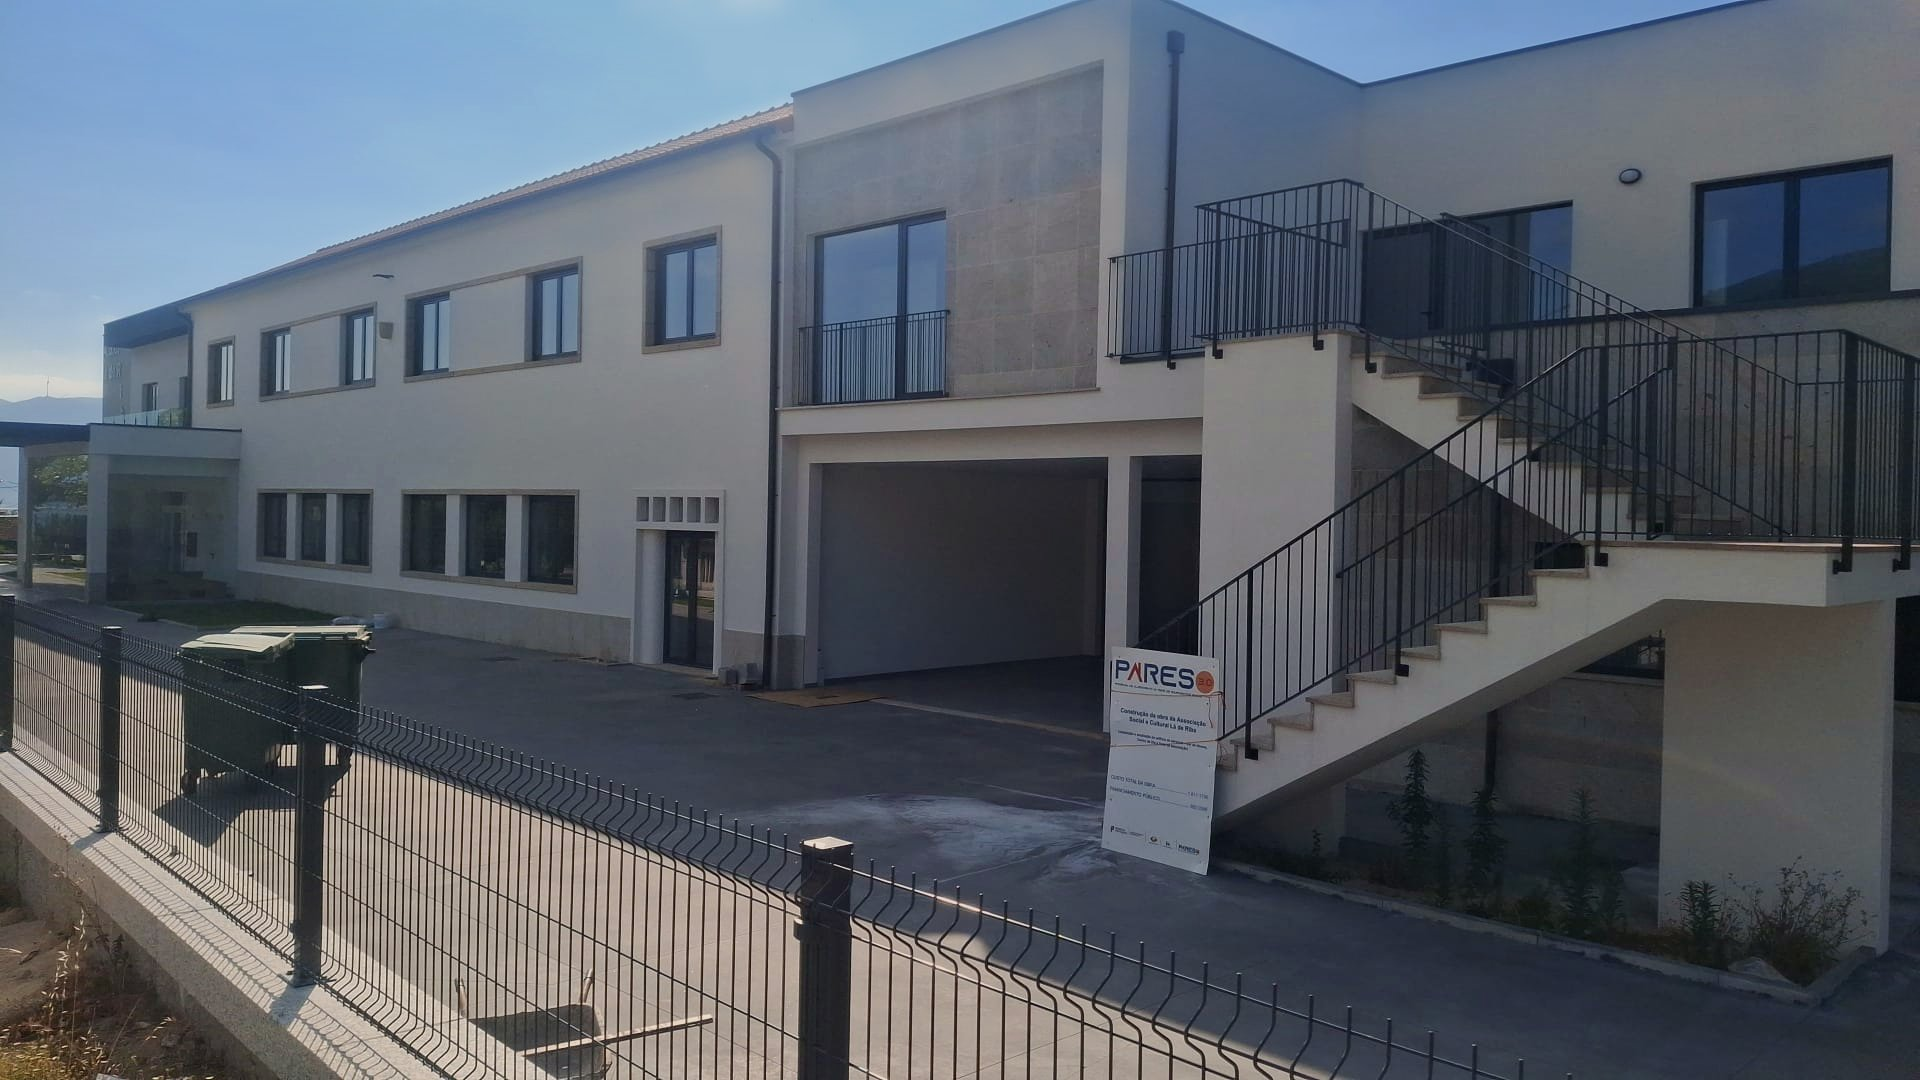
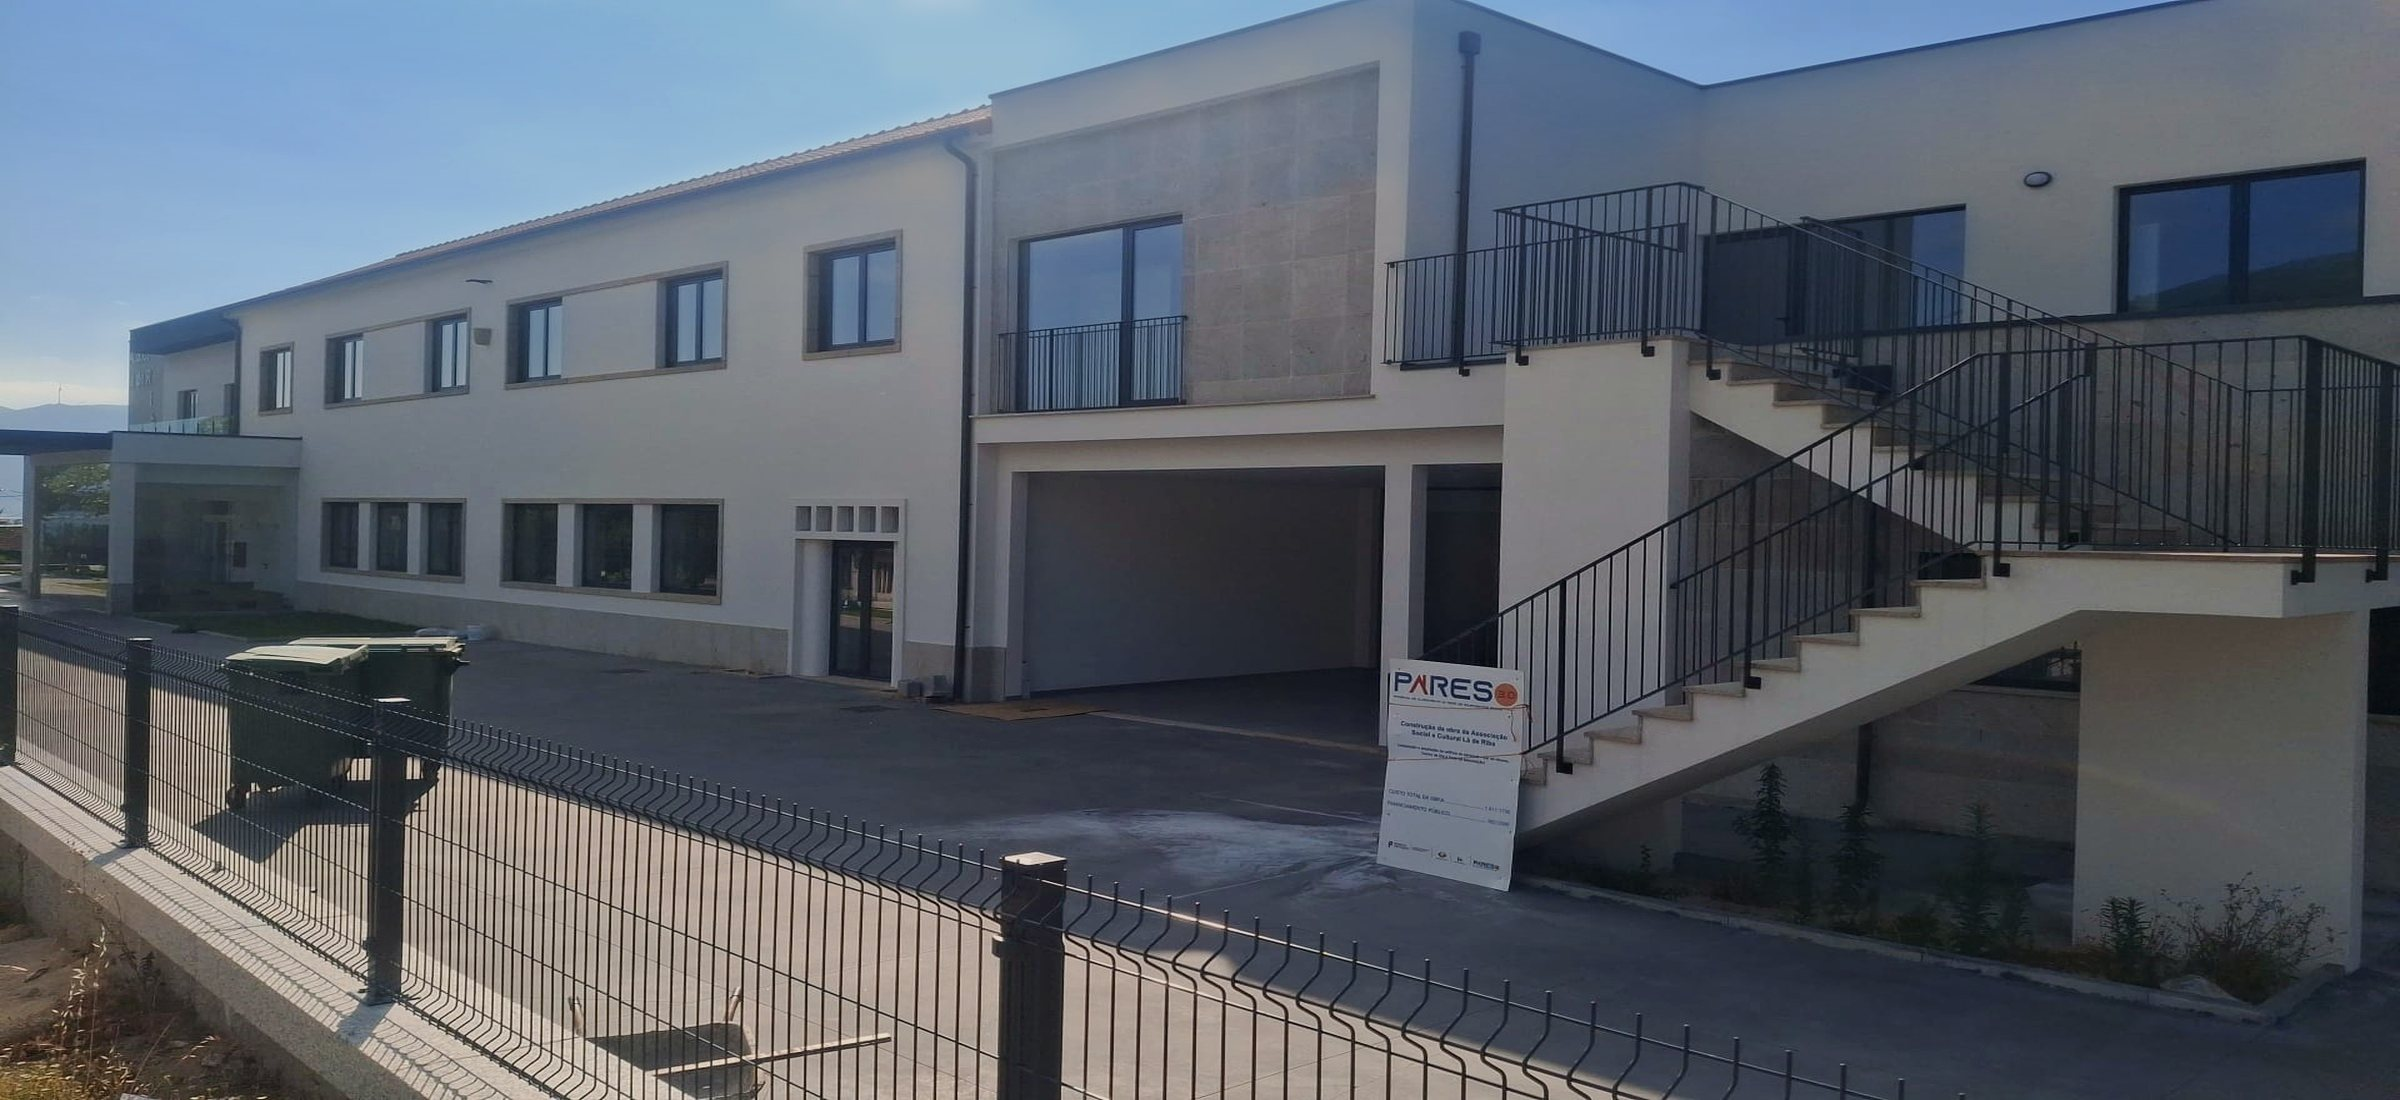
Hero: use wide version of the building photo, tone-corrected

Changed region(s): [[0.0, 0.5806, 0.0938, 0.7639], [0.125, 0.7639, 0.1562, 0.7944], [0.0938, 0.7944, 0.125, 0.825]]

diff --git a/components/home/hero.tsx b/components/home/hero.tsx
@@ -10,7 +10,7 @@ export function Hero() {
     <section className="relative isolate overflow-hidden bg-olive-dark text-white">
       {src ? (
         <>
-          <Image src={src} alt="Novo edifício da associação, em Riba de Mouro" fill priority sizes="100vw" className="-z-20 object-cover object-[50%_60%]" />
+          <Image src={src} alt="Novo edifício da associação, em Riba de Mouro" fill priority sizes="100vw" className="-z-20 object-cover object-[50%_50%]" />
           <div className="absolute inset-0 -z-10 bg-gradient-to-r from-olive-dark/85 via-olive-dark/50 to-olive-dark/5" />
         </>
       ) : (
